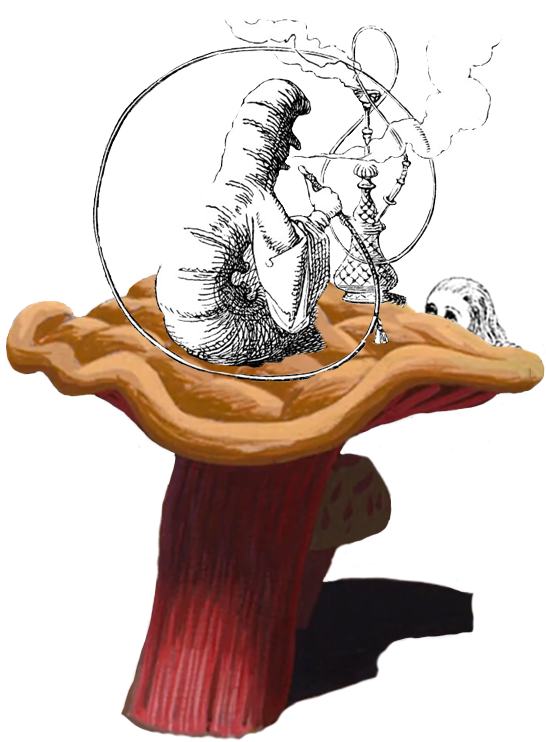
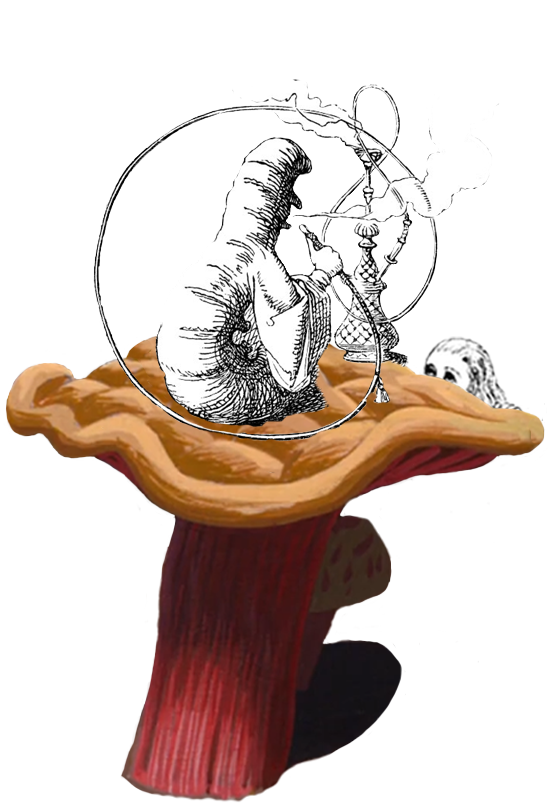
cap5
cap5 praticamente concluido

diff --git a/cap5.html b/cap5.html
@@ -34,13 +34,22 @@
             </section>
         </div>
 
+ <div id="sectionfumo">
+            <div id="fumo">
+                <div id="divfumo">
+                    <img src="imgcap5/fumo1.png" alt="Detalhes 1" id="cap5fumo1-img" class="details-image">
+                    <img src="imgcap5/fumo2.png" alt="Detalhes 1" id="cap5fumo2-img" class="details-image">
+                </div>
+            </div>
+        </div>
+
         <div id="sectionfolhas">
             <div id="folhas">
                 <div id="divfolhas">
                     <img src="imgcap5/fundo22.png" alt="Detalhes 1" id="cap5cena2detalhes1-img" class="details-image">
 
-                    <img src="imgcap5/alice.png" alt="Detalhes" id="cap5cena2alice-img" class="Personagem">
-                    <img src="imgcap5/cogumelo.png" alt="Detalhes" id="cap5cena2cogumelo-img" class="details-image">
+                   <!-- <img src="imgcap5/alice.png" alt="Detalhes" id="cap5cena2alice-img" class="Personagem">-->
+                    <img src="imgcap5/cogumeloAlice2.png" alt="Detalhes" id="cap5cena2cogumelo-img" class="details-image">
                     <img src="imgcap5/lagarta.png" alt="Detalhes 1" id="cap5cena1lagarta2-img" class="details-image">
 
                 </div>

diff --git a/css/cap5.css b/css/cap5.css
@@ -118,6 +118,49 @@ section {
     z-index: -1;
 }
 /*-----------------------------------------------------cena1.----------- */
+#sectionfumo {
+    position: absolute;
+    left: 0;
+    top: 20vh;
+    height: 100vh;
+    width: 100vw;
+    z-index: 100;
+}
+#fumo {
+    position: sticky;
+    top: 0vh;
+    /* 40% */
+    height: 100vh;
+    width: 100vw;
+    z-index: 0;
+}
+#divfumo {
+    position: relative;
+    top: 0%;
+    left: 0%;
+    height: 100vh;
+    width: 100vw;
+    z-index: 0;
+}
+#cap5fumo1-img {
+    position: absolute;
+    left: 0%;
+    bottom: 0;
+    height: auto;
+    width: 40vw;
+    z-index: 2;
+}
+#cap5fumo2-img {
+    position: absolute;
+    right: 0%;
+    bottom: 0;
+    height: 70vh;
+    width: 40vw;
+    z-index: 2;
+}
+
+
+
 
 #containercogumelo {
     position: absolute;
@@ -339,7 +382,7 @@ section {
 }
 #cap5cena1lagarta2-img {
     position: absolute;
-    left: 20vw;
+    left: 10vw;
     bottom: -30px;
     height: auto;
     width: 30vw;
